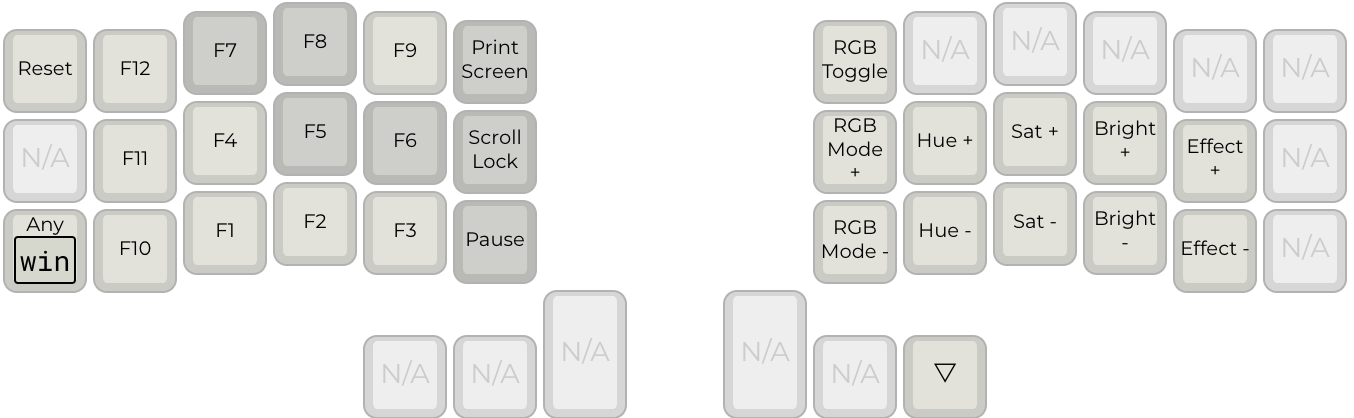
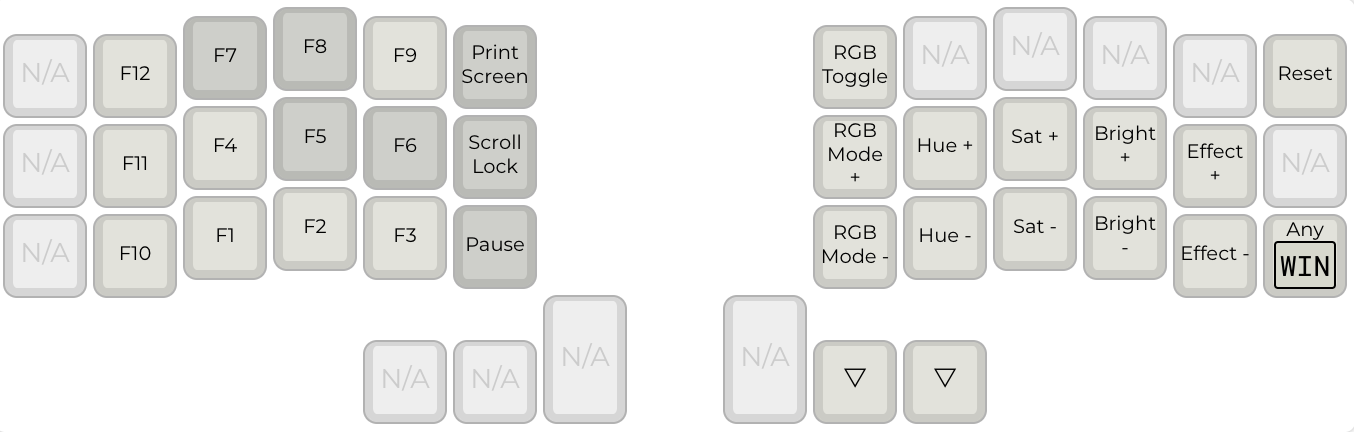
docs

diff --git a/readme.md b/readme.md
@@ -29,7 +29,9 @@ The layout needs to accommodate both legal writing and programming.
 
 ## The Layouts
 
-The layouts are basically self-documenting, but here they are:
+Currently dizave42 uses five layers. I'm at the point where I don't expect 
+much to change. I am still playing with different ways to switch between them,
+however.
 
 ### Colemak
 
@@ -37,38 +39,36 @@ The layouts are basically self-documenting, but here they are:
 ![Default Layer](images/layer-colemak.png)
 
 This is my primary layer--standard colemak. I've departed from Miryoku in the
-thumb cluster and of course in the pinky columns. I'm still experimenting with 
-those two areas but otherwise this is unlikely to change. 
+thumb cluster and of course in the sixth columns. I'm still experimenting with 
+those two areas. For example I'm still trying to figure out backspace, hence having 
+it in two places. I really liked it in the middle of the right thumb cluster but
+other things were more important there. 
 
-The layout uses home row mods in the GACS configuration (for windows) or CAGS (for mac).
-The current mode is displayed in the OLED with a windows or apple symbol. See the discussion below for more on that.
-
-I do have some problems with the home row keys, at least on the pinky and 
-ring fingers. Currently I have removed them from the pinky on the main
-layer. I've also put mod keys on the outermost thumb keys. I don't like them
-there and will probably end up changing that eventually. As described below,
-the mod keys change depending on whether the keyboard is in windows or mac
-mode. This lets me keep the most important key under my middle finger regardless
-of which OS I'm on (I switch constantly).
-
-For an amazing overview of home row mods, check out
+The layout uses home row mods in the GACS configuration (for windows) or CAGS (for mac). 
+For a thorough overview of home row mods, check out
 [precondition's page](https://precondition.github.io/home-row-mods).
 
+I do have some problems with the home row keys, at least on the pinky and ring fingers. 
 I've used [achordion](https://github.com/getreuer/qmk-keymap) to eliminate
 the issues I was having with home row mod rolls. For my purposes, it is basically
 a way to get bilateral combos but with userspace code. This made home row mods 
 useable for me.
 
+As described below,the mod keys change depending on whether the keyboard is in windows or mac
+mode. This lets me keep the most important key under my middle finger regardless
+of which OS I'm on (I switch constantly).
+
 ### Nav Layer
 ![Nav Layer](images/layer-nav.png)
 
 - close key that is cmd Q on mac and alt F4 on windows
-- key to switch virtual desktops on windows
+- key to switch virtual desktops on windows or mac
 - the home row keys on this layer are one-shot mods
 
 I tried using the VIM style arrows, I really did. But I just can't.
 This is one area where I had to depart from Miryoku, the nav layer
-just didn't work for me.
+just didn't work for me. My brain needs up to be above down, not to
+the right of it.
 
 ### Number Layer
 ![Number Layer](images/layer-numbers.png)
